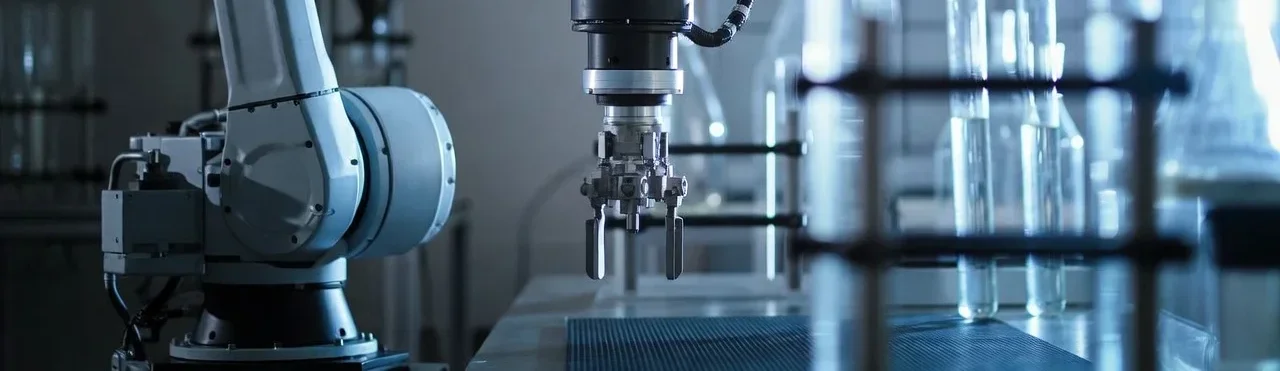
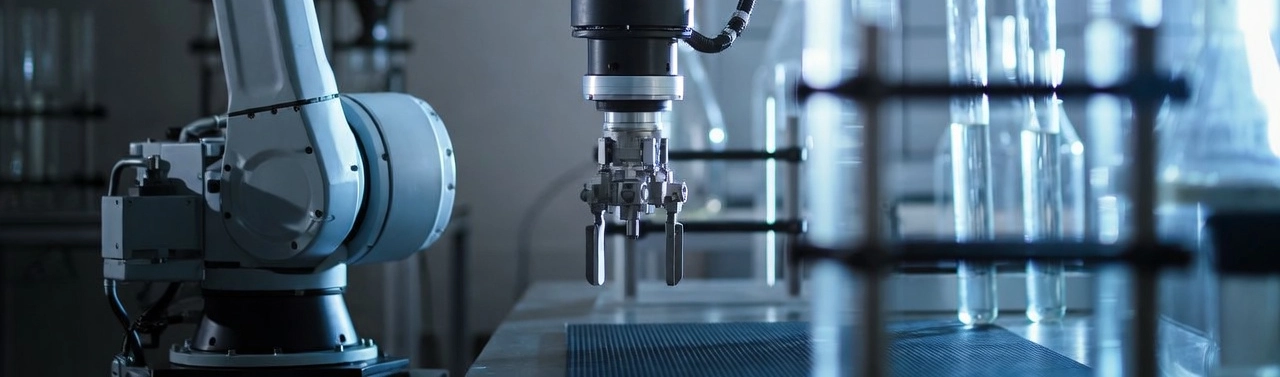
animacao e imagem nova

diff --git a/components/motion/SectionReveal3D.tsx b/components/motion/SectionReveal3D.tsx
@@ -1,0 +1,118 @@
+"use client";
+
+import { ReactNode, useEffect, useState } from "react";
+import { motion, useReducedMotion } from "framer-motion";
+
+type SectionReveal3DProps = {
+  children: ReactNode;
+  className?: string;
+  id?: string;
+  direction?: "left" | "right" | "center";
+  rotateStart?: number;
+  rotateEnd?: number;
+  yStart?: number;
+  xStart?: number;
+  scaleStart?: number;
+  perspective?: number;
+  duration?: number;
+  delay?: number;
+  once?: boolean;
+  mobileDisabled?: boolean;
+};
+
+export function SectionReveal3D({
+  children,
+  className = "",
+  id,
+  direction = "center",
+  rotateStart = 40,
+  rotateEnd = 0,
+  yStart = 100,
+  xStart,
+  scaleStart = 0.98,
+  perspective = 1400,
+  duration = 0.8,
+  delay = 0,
+  mobileDisabled = true,
+  once = false,
+}: SectionReveal3DProps) {
+  const prefersReducedMotion = useReducedMotion();
+  const [isMobile, setIsMobile] = useState(false);
+
+  useEffect(() => {
+    const checkViewport = () => setIsMobile(window.innerWidth < 768);
+    checkViewport();
+    window.addEventListener("resize", checkViewport);
+    return () => window.removeEventListener("resize", checkViewport);
+  }, []);
+
+  const simpleMode = prefersReducedMotion || (mobileDisabled && isMobile);
+
+  const initialX =
+    typeof xStart === "number"
+      ? xStart
+      : direction === "left"
+        ? -24
+        : direction === "right"
+          ? 24
+          : 0;
+
+  return (
+    <section
+      id={id}
+      className={`relative overflow-visible ${className}`}
+      style={{
+        perspective: simpleMode ? "none" : `${perspective}px`,
+        transformStyle: "preserve-3d",
+      }}
+    >
+      <motion.div
+        initial={
+          simpleMode
+            ? {
+                opacity: 0,
+                y: 32,
+              }
+            : {
+                opacity: 0,
+                y: yStart,
+                x: initialX,
+                rotateX: rotateStart,
+                scale: scaleStart,
+              }
+        }
+        whileInView={
+          simpleMode
+            ? {
+                opacity: 1,
+                y: 0,
+              }
+            : {
+                opacity: 1,
+                y: 0,
+                x: 0,
+                rotateX: rotateEnd,
+                scale: 1,
+              }
+        }
+        viewport={{
+          once,
+          amount: 0.2,
+        }}
+        transition={{
+          duration,
+          delay,
+          ease: [0.16, 1, 0.3, 1],
+        }}
+        style={{
+          transformOrigin: "center bottom",
+          transformStyle: "preserve-3d",
+          willChange: "transform, opacity",
+          backfaceVisibility: "hidden",
+        }}
+      >
+        {children}
+      </motion.div>
+    </section>
+  );
+}

diff --git a/components/sections/Software/SoftwareIndex.tsx b/components/sections/Software/SoftwareIndex.tsx
@@ -1,13 +1,47 @@
 import { Software } from "./Software";
 import { Criatividade } from "./Criatividade";
 import { Multiplataforma } from "./Multiplataforma";
+import { RevealIf } from "@/components/motion/RevealIf";
 
 export function SoftwareIndex() {
   return (
     <>
-      <Software />
-      <Multiplataforma />
-      <Criatividade />
+      <RevealIf
+        enabled
+        once={false}
+        direction="left"
+        rotateStart={18}
+        rotateEnd={0}
+        yStart={60}
+        scaleStart={0.995}
+        duration={0.7}
+      >
+        <Software />
+      </RevealIf>
+      <RevealIf
+        enabled
+        once={false}
+        direction="left"
+        rotateStart={35}
+        rotateEnd={0}
+        yStart={100}
+        scaleStart={0.98}
+        duration={0.85}
+      >
+        <Multiplataforma />
+      </RevealIf>
+      <RevealIf
+        enabled
+        once={false}
+        direction="left"
+        rotateStart={18}
+        rotateEnd={0}
+        depthStart={-40}
+        yStart={60}
+        scaleStart={0.995}
+      >
+        <Criatividade />
+      </RevealIf>
     </>
   );
 }

diff --git a/components/motion/RevealIf.tsx b/components/motion/RevealIf.tsx
@@ -1,0 +1,34 @@
+"use client";
+
+import { ReactNode } from "react";
+import { SectionReveal3D } from "@/components/motion/SectionReveal3D";
+
+type RevealIfProps = {
+  children: ReactNode;
+  enabled?: boolean;
+  className?: string;
+  id?: string;
+  direction?: "left" | "right" | "center";
+  rotateStart?: number;
+  rotateEnd?: number;
+  yStart?: number;
+  xStart?: number;
+  scaleStart?: number;
+  perspective?: number;
+  duration?: number;
+  delay?: number;
+  mobileDisabled?: boolean;
+  once?: boolean;
+};
+
+export function RevealIf({
+  children,
+  enabled = false,
+  ...props
+}: RevealIfProps) {
+  if (!enabled) {
+    return <>{children}</>;
+  }
+
+  return <SectionReveal3D {...props}>{children}</SectionReveal3D>;
+}
